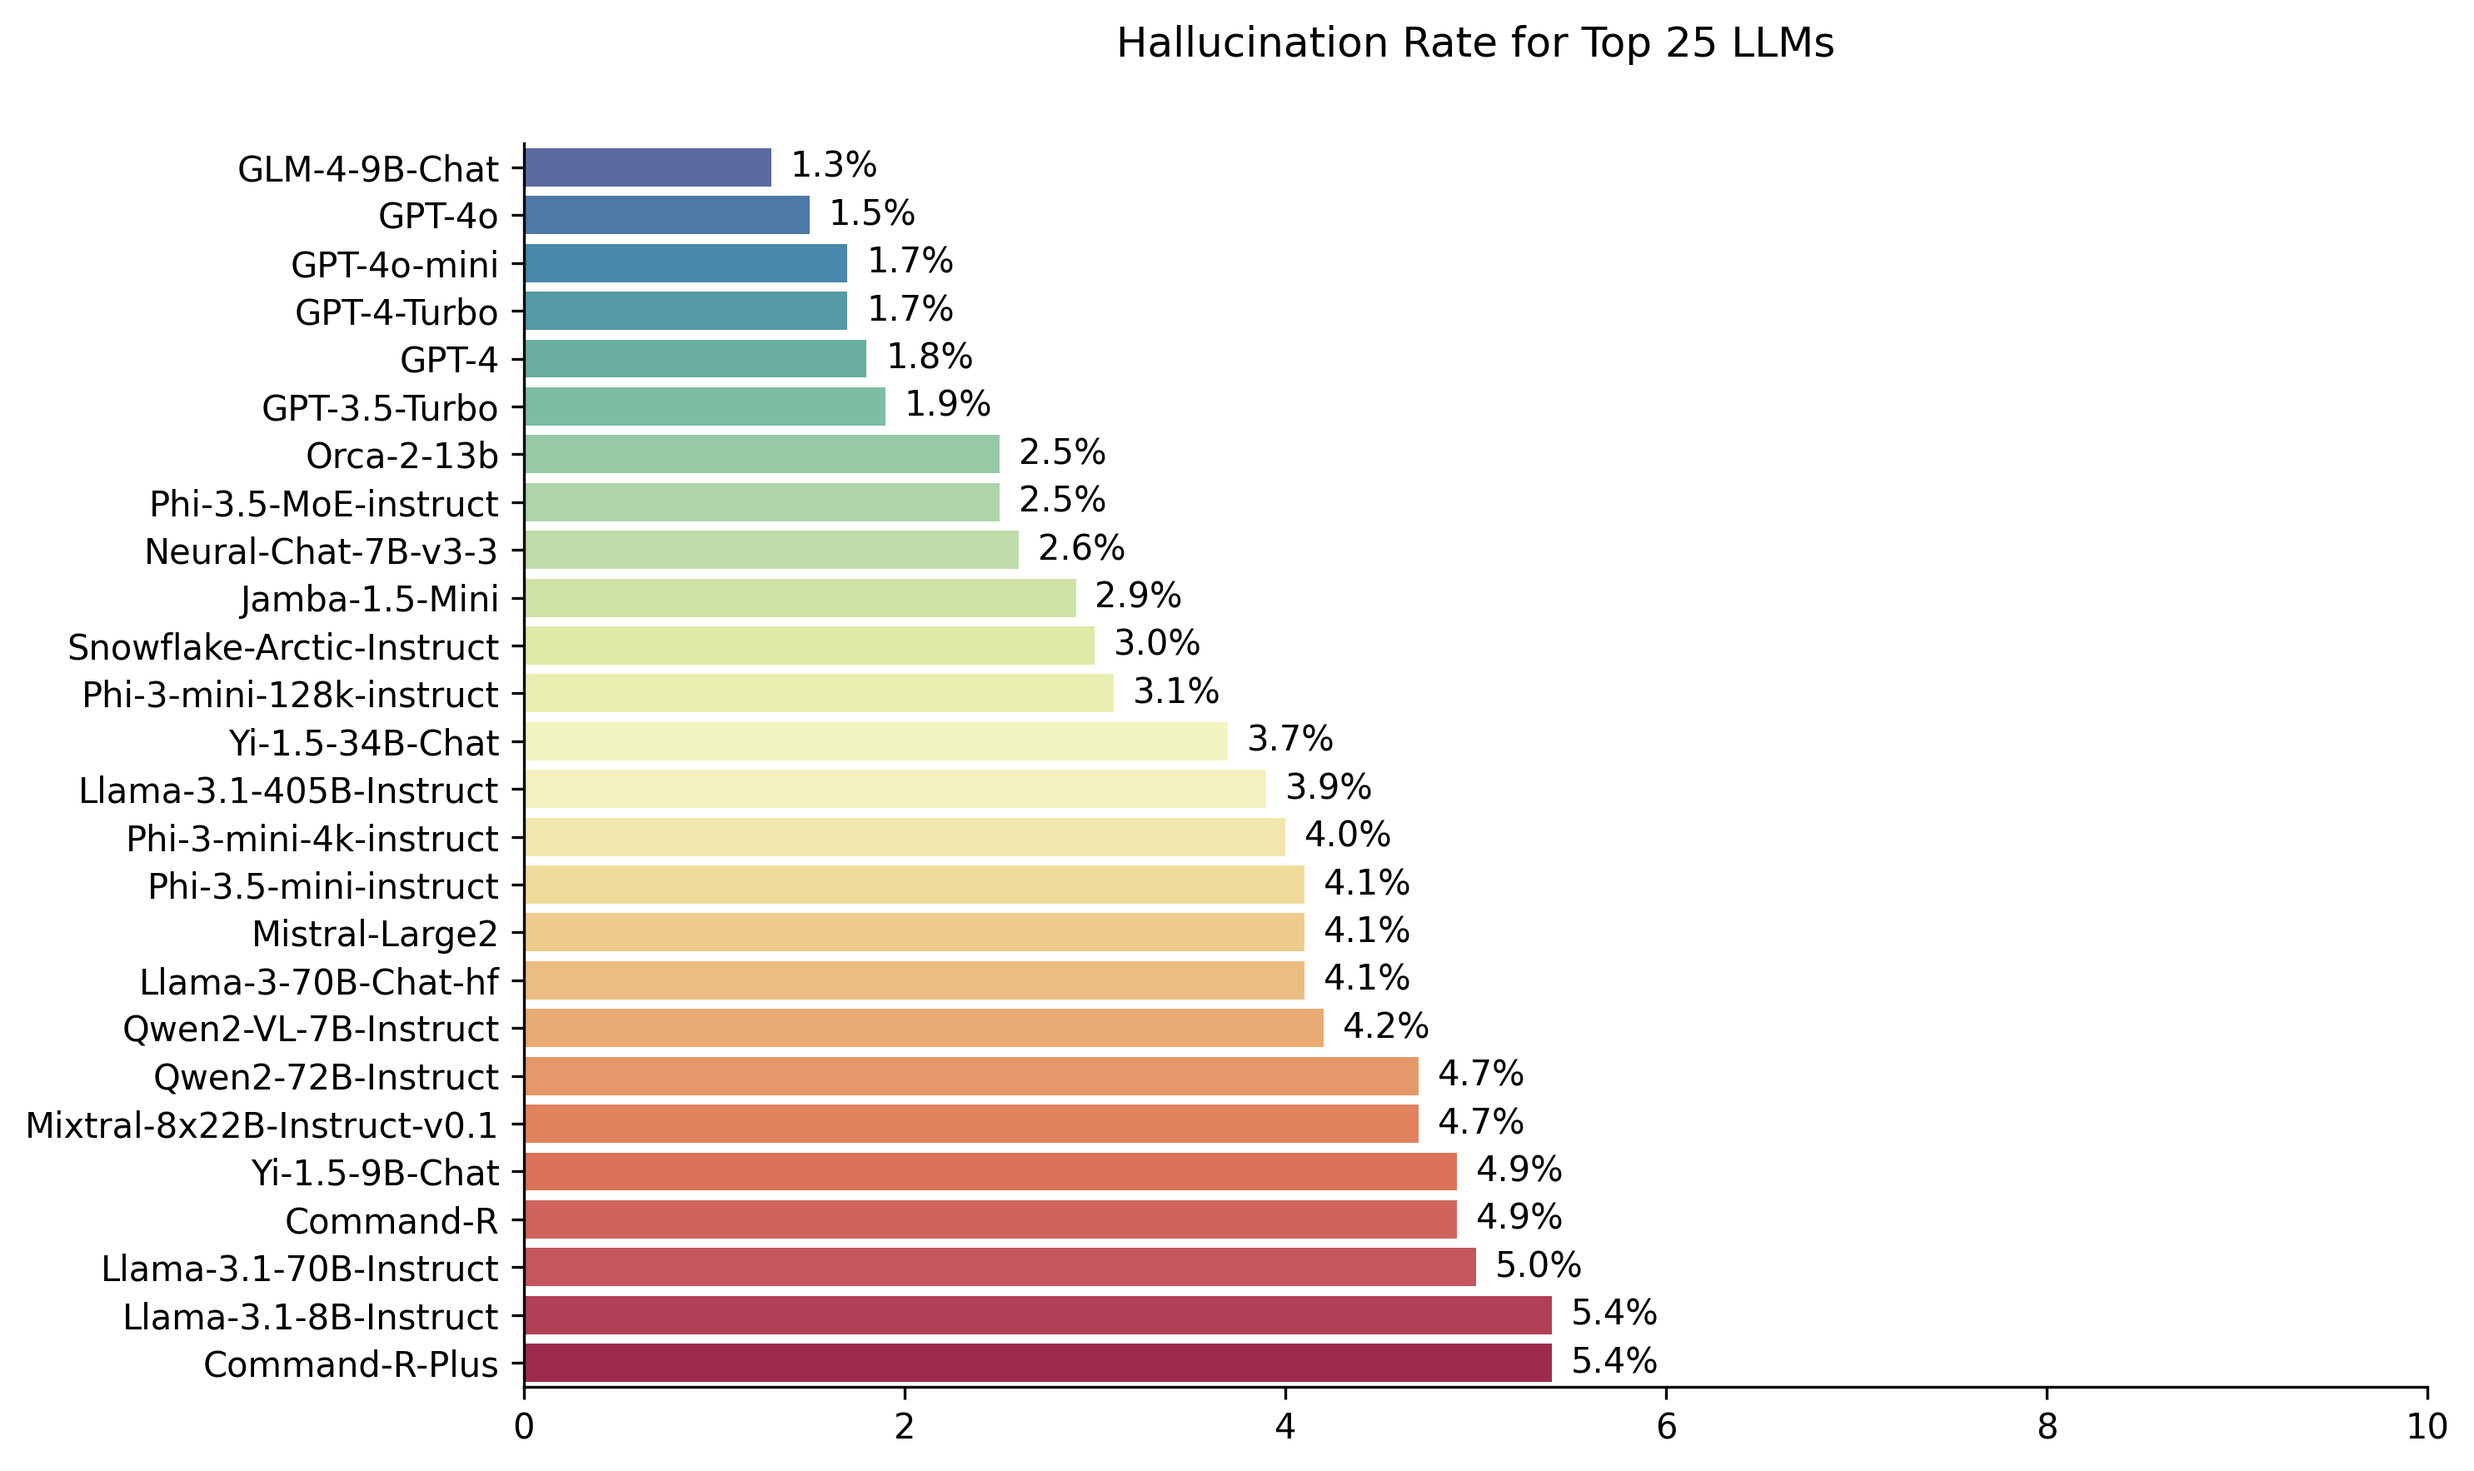
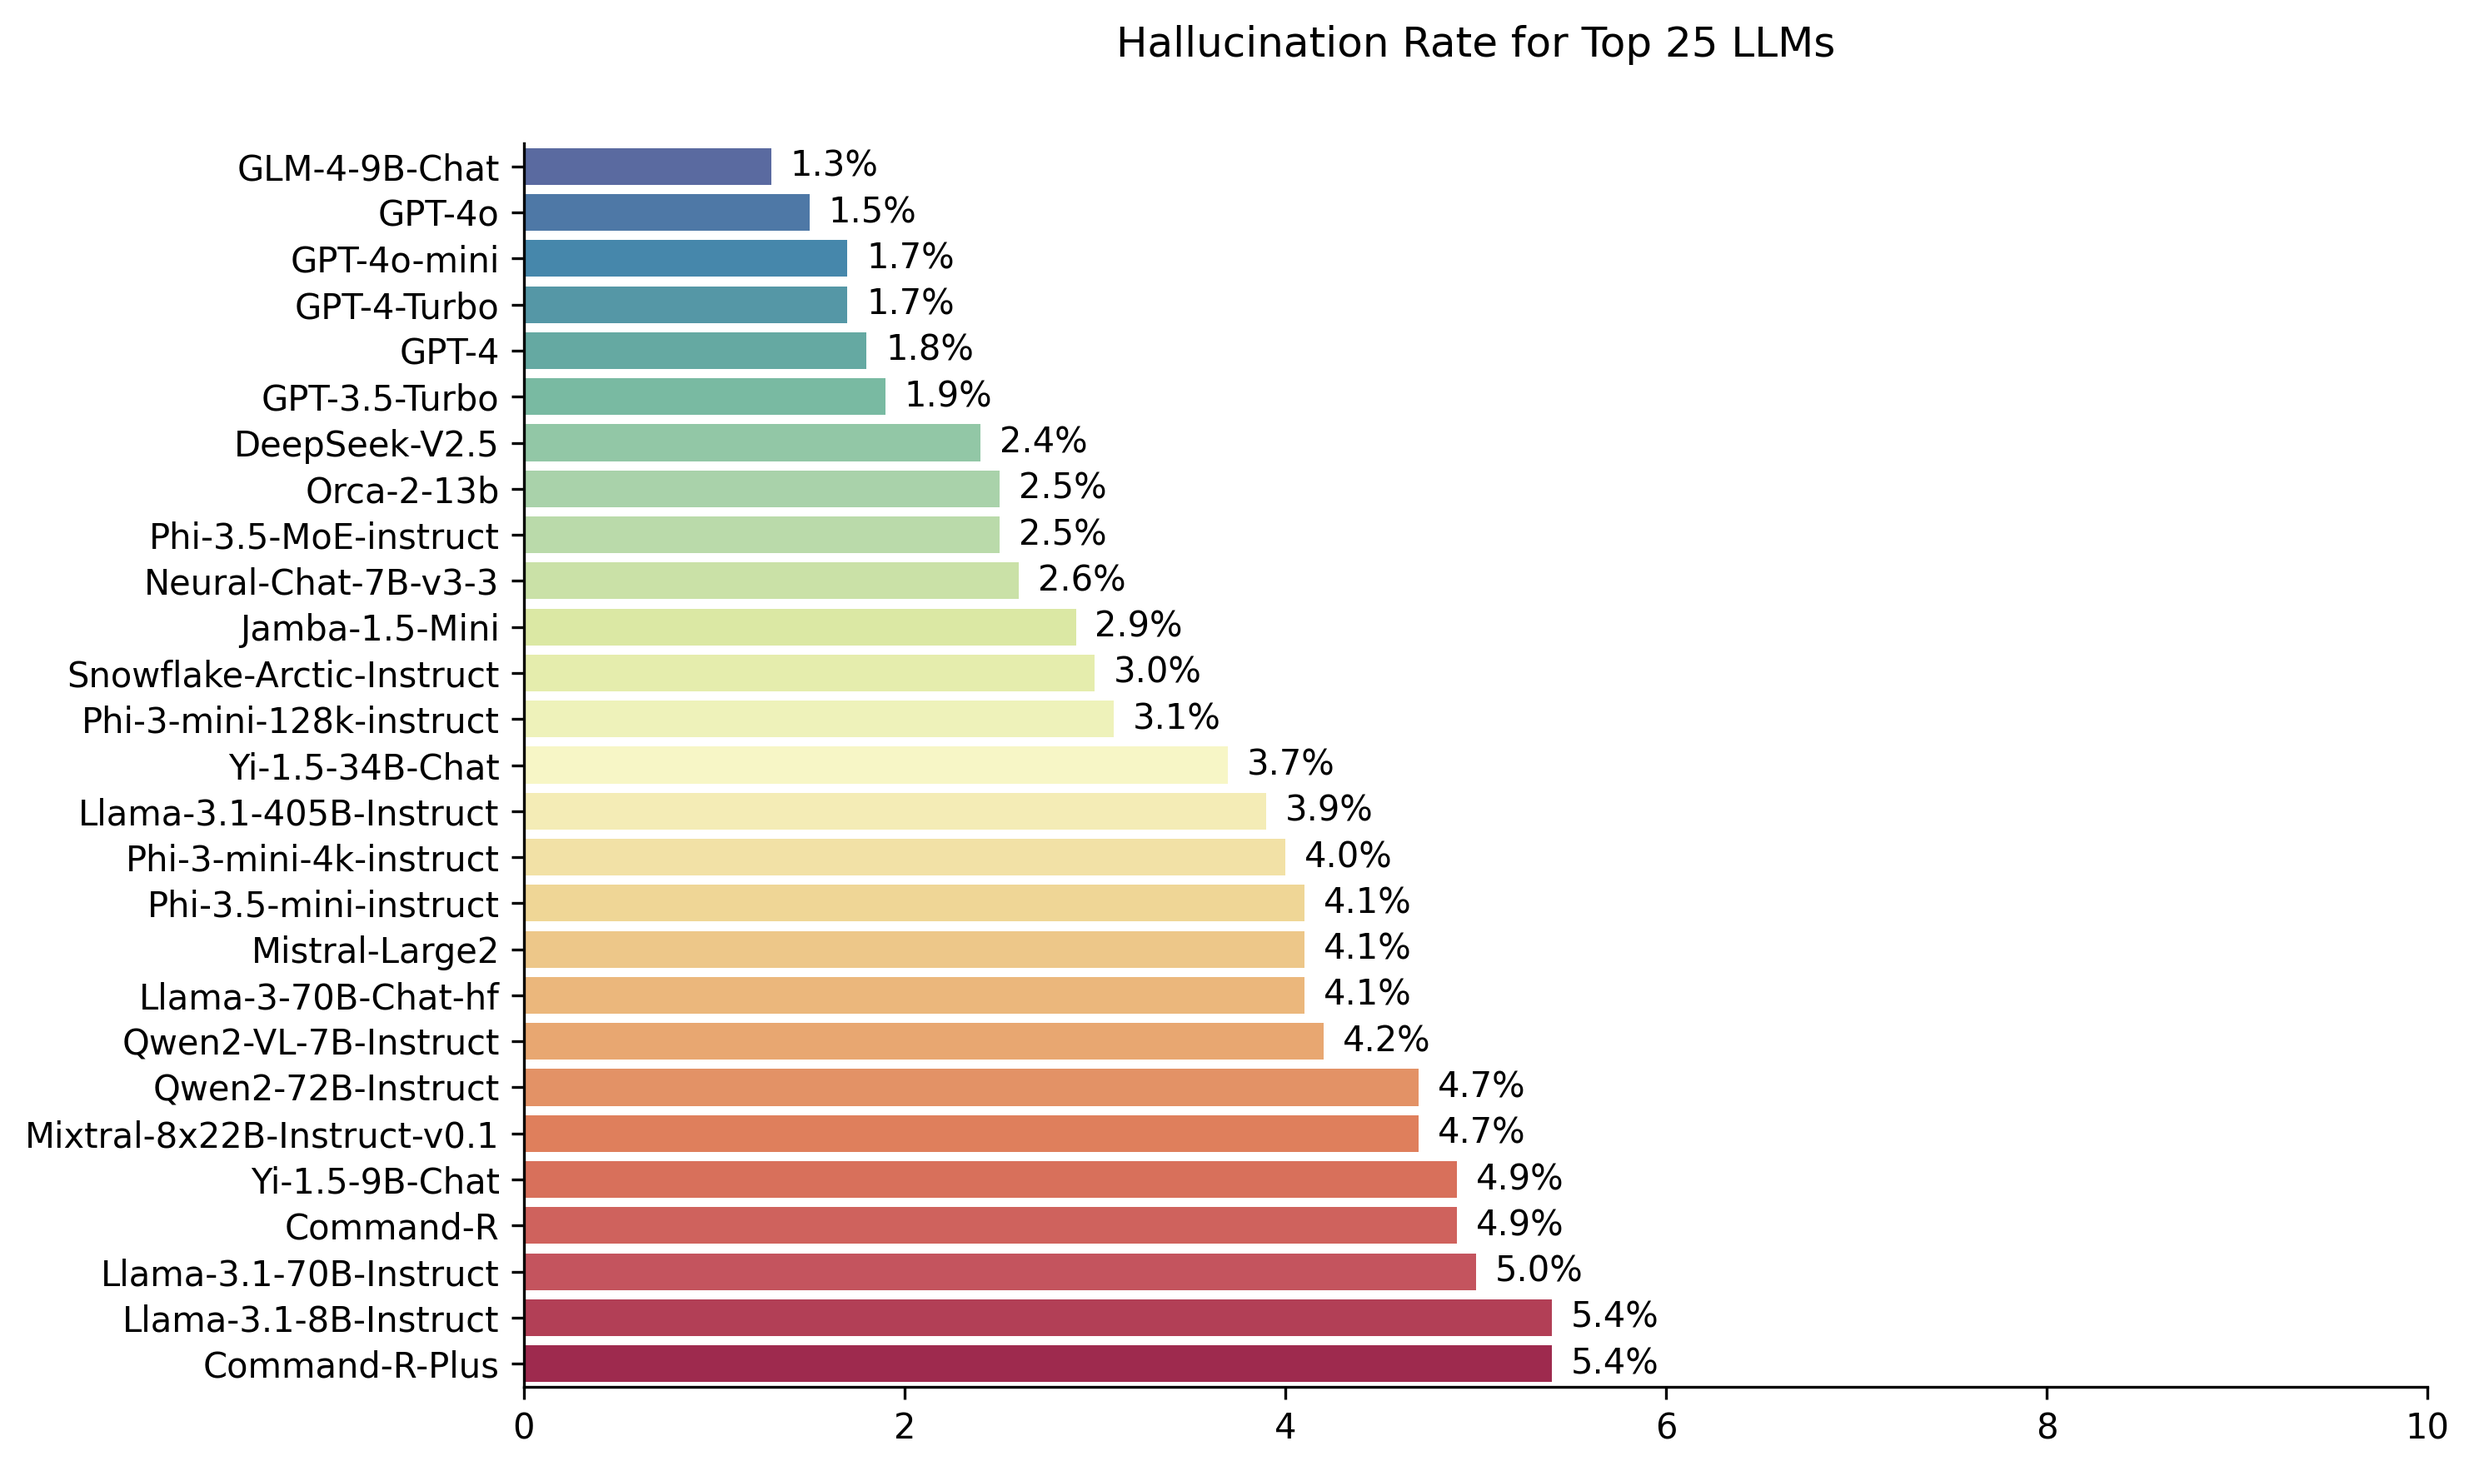
add results for deepseek-v2.5

Changed region(s): [[0.0, 0.1246, 0.6815, 0.9032]]

diff --git a/README.md b/README.md
@@ -32,6 +32,7 @@ Last updated on September 5th, 2024
 |GPT-4-Turbo|1.7 %|98.3 %|100.0 %|86.2|
 |GPT-4|1.8 %|98.2 %|100.0 %|81.1|
 |GPT-3.5-Turbo|1.9 %|98.1 %|99.6 %|84.1|
+|DeepSeek-V2.5|2.4 %|97.6 %|100.0 %|83.2|
 |Microsoft Orca-2-13b|2.5 %|97.5 %|100.0 %|66.2|
 |Microsoft Phi-3.5-MoE-instruct|2.5 %|97.5 %|96.3 %|69.7|
 |Intel Neural-Chat-7B-v3-3|2.6 %|97.4 %|100.0 %|60.7|
@@ -200,6 +201,9 @@ For an in-depth understanding of each model's version and lifecycle, especially 
 
 ### AI21 Model
 - **AI21-Jamba-1.5-Mini**: The [Jamba-1.5-Mini](https://huggingface.co/ai21labs/AI21-Jamba-1.5-Mini) model is accessed via Hugging Face's checkpoint.
+
+### DeepSeek Model
+- **DeepSeek V2.5**: Accessed via DeepSeek's API using `deepseek-chat` model and the `chat` endpoint.
 
 ## Frequently Asked Questions
 * **Qu.** Why are you are using a model to evaluate a model?
